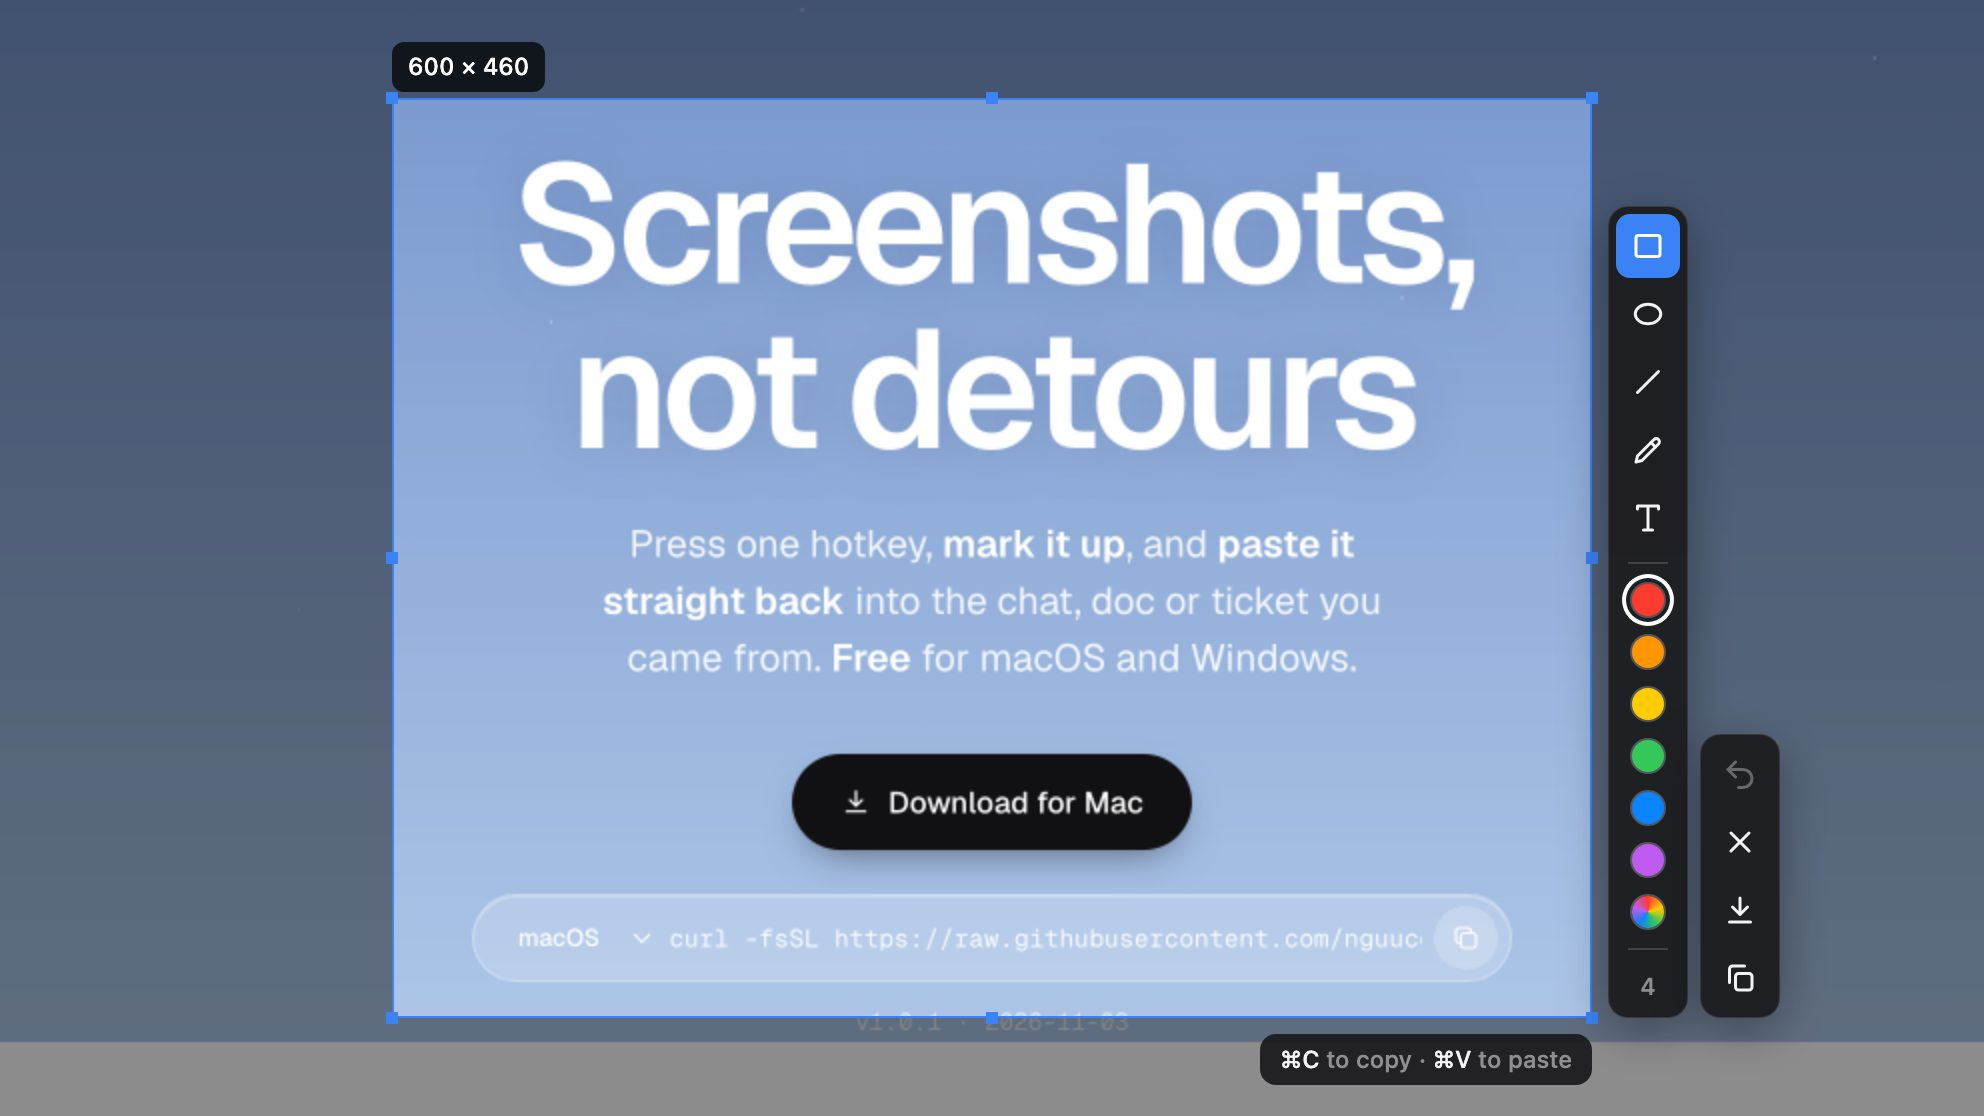
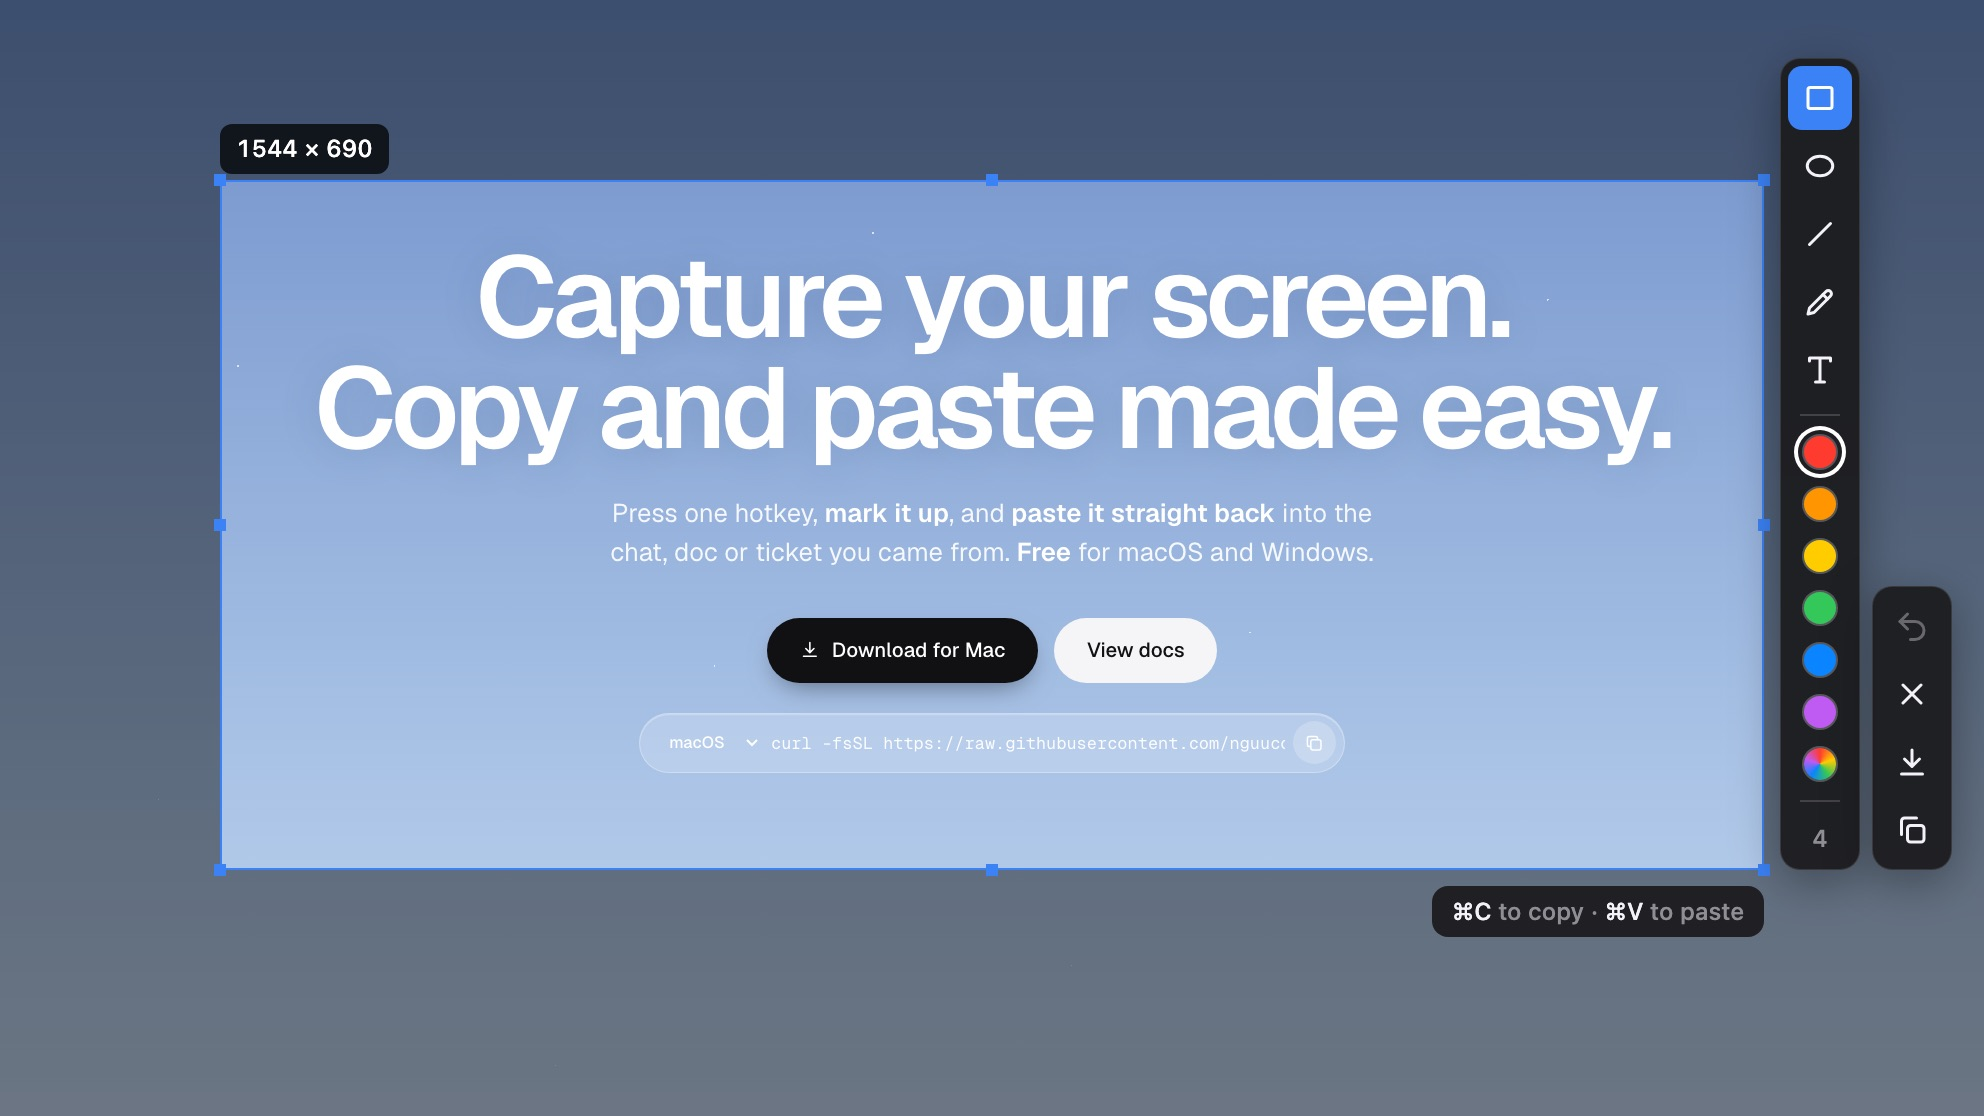
Website: new hero copy, View docs button, demo inside an iMac
- Darken the nav links.
- Headline "Capture your screen. Copy and paste made easy." on two lines,
  lede on two lines, smaller headline on phones.
- Add a View docs button next to Download, linking to the README.
- Show the demo on an iMac rendered once from a 3D model to a 14 KB WebP,
  so the page loads no GLB or WebGL. The screen is 80% of the window width.
- Re-render the demo frames and match the drag animation to the new area.
- Credit the model in the footer (CC BY 4.0, dannzjs).

diff --git a/docs/index.html b/docs/index.html
@@ -41,7 +41,7 @@ a { color: inherit; text-decoration: none; }
 .nav .bar { pointer-events: auto; width: 100%; max-width: 1180px; display: flex; align-items: center; justify-content: space-between; gap: 16px; height: 56px; padding: 0 8px 0 20px; border-radius: 999px; background: color-mix(in srgb, var(--bg) 78%, transparent); backdrop-filter: saturate(1.6) blur(16px); -webkit-backdrop-filter: saturate(1.6) blur(16px); box-shadow: 0 1px 0 rgba(255, 255, 255, .4) inset, 0 8px 30px -12px rgba(30, 50, 90, .25); }
 .brand { display: flex; align-items: center; gap: 10px; font-weight: 600; letter-spacing: -.01em; }
 .brand img { width: 22px; height: 22px; border-radius: 6px; }
-.links { display: flex; gap: 28px; font-size: 14px; color: var(--muted); }
+.links { display: flex; gap: 28px; font-size: 14px; color: color-mix(in srgb, var(--fg) 80%, transparent); }
 .links a:hover { color: var(--fg); }
 
 /* Buttons */
@@ -58,8 +58,8 @@ a { color: inherit; text-decoration: none; }
 .hero { position: relative; margin: 12px; border-radius: 32px; padding: 150px 24px 0; text-align: center; color: #fff; background: linear-gradient(180deg, var(--sky-1) 0, var(--sky-2) 560px, var(--sky-3) 1060px); isolation: isolate; }
 .hero::before { content: ""; position: absolute; inset: 0; border-radius: inherit; z-index: -1; pointer-events: none; opacity: .7; background-image: radial-gradient(1.5px 1.5px at 12% 22%, #fff 50%, transparent 51%), radial-gradient(1px 1px at 28% 64%, #fff 50%, transparent 51%), radial-gradient(1.5px 1.5px at 44% 14%, #fff 50%, transparent 51%), radial-gradient(1px 1px at 63% 38%, #fff 50%, transparent 51%), radial-gradient(1.5px 1.5px at 78% 18%, #fff 50%, transparent 51%), radial-gradient(1px 1px at 88% 56%, #fff 50%, transparent 51%), radial-gradient(1px 1px at 8% 48%, #fff 50%, transparent 51%), radial-gradient(1.5px 1.5px at 70% 70%, #fff 50%, transparent 51%), radial-gradient(1px 1px at 36% 40%, #fff 50%, transparent 51%), radial-gradient(1px 1px at 54% 58%, #fff 50%, transparent 51%); animation: twinkle 6s ease-in-out infinite alternate; }
 @keyframes twinkle { to { opacity: .25; } }
-.hero h1 { font-size: clamp(44px, 7vw, 84px); line-height: .98; letter-spacing: -.045em; font-weight: 600; margin: 0 auto 22px; max-width: 12ch; text-wrap: balance; text-shadow: 0 2px 30px rgba(30, 50, 90, .15); }
-.hero .lede { font-size: 19px; line-height: 1.5; max-width: 34ch; margin: 0 auto 34px; color: rgba(255, 255, 255, .9); text-wrap: balance; }
+.hero h1 { font-size: clamp(44px, 7vw, 84px); line-height: .98; letter-spacing: -.045em; font-weight: 600; margin: 0 auto 22px; text-wrap: balance; text-shadow: 0 2px 30px rgba(30, 50, 90, .15); }
+.hero .lede { font-size: 19px; line-height: 1.5; max-width: 62ch; margin: 0 auto 34px; color: rgba(255, 255, 255, .9); text-wrap: balance; }
 .hero .lede b { color: #fff; font-weight: 600; }
 .cta-row { display: flex; flex-wrap: wrap; justify-content: center; gap: 12px; }
 .cmd { display: flex; align-items: center; gap: 6px; max-width: 520px; margin: 22px auto 0; height: 44px; padding: 0 6px 0 16px; border-radius: 999px; background: rgba(255, 255, 255, .18); border: 1px solid rgba(255, 255, 255, .3); backdrop-filter: blur(10px); -webkit-backdrop-filter: blur(10px); box-shadow: inset 0 1px 0 rgba(255, 255, 255, .25); color: #fff; }
@@ -77,14 +77,18 @@ a { color: inherit; text-decoration: none; }
 .ver { margin-top: 12px; font: 12px var(--mono); color: rgba(255, 255, 255, .75); min-height: 18px; }
 
 /* Demo: three real frames of the overlay. Frame 1 is revealed like a selection being dragged, frame 2 fades in the annotations. */
-.stage { position: relative; max-width: 1000px; margin: 64px auto -140px; }
-.demo { position: relative; margin: 0; aspect-ratio: 16 / 9; border-radius: 20px; overflow: hidden; box-shadow: var(--shadow); background: #8a8a8a; }
+/* The iMac screen spans 93.16% of the image, so 85.87vw makes the screen 80vw */
+.stage { width: min(85.87vw, 100%); margin: 64px auto 0; }
+.imac { position: relative; }
+.imac > img { display: block; width: 100%; height: auto; filter: drop-shadow(0 30px 40px rgba(30, 50, 90, .3)); }
+/* Screen rectangle measured from the 3D model */
+.demo { position: absolute; margin: 0; left: 3.42%; right: 3.42%; top: 4.657%; bottom: 34.783%; overflow: hidden; background: #8a8a8a; }
 .demo img { position: absolute; inset: 0; width: 100%; height: 100%; display: block; }
 .demo .f1 { animation: drag 10s infinite; }
 .demo .f2 { animation: mark 10s infinite; }
 @keyframes drag {
-  0%, 12% { clip-path: inset(8.78% 80.24% 91.22% 19.76%); opacity: 1; animation-timing-function: var(--ease); }
-  34%, 35.9% { clip-path: inset(8.78% 19.76% 8.78% 19.76%); }
+  0%, 12% { clip-path: inset(16.13% 88.91% 83.87% 11.09%); opacity: 1; animation-timing-function: var(--ease); }
+  34%, 35.9% { clip-path: inset(16.13% 11.09% 22.04% 11.09%); }
   36%, 90% { clip-path: inset(0); opacity: 1; }
   96%, 100% { clip-path: inset(0); opacity: 0; }
 }
@@ -92,11 +96,11 @@ a { color: inherit; text-decoration: none; }
 .track { position: absolute; inset: 0; pointer-events: none; animation: track 10s infinite; }
 .track svg { position: absolute; left: 0; top: 0; width: 22px; height: 22px; margin: -11px 0 0 -11px; color: #fff; filter: drop-shadow(0 1px 1px rgba(0, 0, 0, .6)); }
 @keyframes track {
-  0%, 12% { transform: translate(19.76%, 8.78%); opacity: 1; animation-timing-function: var(--ease); }
-  34% { transform: translate(80.24%, 91.22%); opacity: 1; }
-  38%, 100% { transform: translate(80.24%, 91.22%); opacity: 0; }
+  0%, 12% { transform: translate(11.09%, 16.13%); opacity: 1; animation-timing-function: var(--ease); }
+  34% { transform: translate(88.91%, 77.96%); opacity: 1; }
+  38%, 100% { transform: translate(88.91%, 77.96%); opacity: 0; }
 }
-.steps { display: flex; justify-content: center; flex-wrap: wrap; gap: 6px; margin-top: 162px; font: 12px var(--mono); color: var(--faint); }
+.steps { display: flex; justify-content: center; flex-wrap: wrap; gap: 6px; margin-top: 22px; font: 12px var(--mono); color: var(--faint); }
 .steps span { padding: 6px 12px; border-radius: 999px; }
 .steps span:nth-child(1) { animation: s1 10s infinite; }
 .steps span:nth-child(2) { animation: s2 10s infinite; }
@@ -214,12 +218,11 @@ footer a:hover { color: var(--fg); }
   .card { min-height: 0; }
   .minis { grid-template-columns: minmax(0, 1fr); }
   .keys { grid-template-columns: repeat(2, minmax(0, 1fr)); }
-  .stage { margin-bottom: -80px; }
-  .steps { margin-top: 102px; }
 }
 @media (max-width: 560px) {
   .wrap { padding: 0 16px; }
   .hero { margin: 8px; border-radius: 24px; padding: 120px 16px 0; }
+  .hero h1 { font-size: clamp(32px, 9.4vw, 44px); }
   .hero .lede { font-size: 17px; }
   .nav { left: 16px; right: 16px; top: 16px; }
   .nav .bar { padding-left: 16px; }
@@ -231,8 +234,7 @@ footer a:hover { color: var(--fg); }
   .keys kbd { font-size: 13px; min-width: 30px; padding: 5px 7px; }
   .keys .k { gap: 4px; }
   .end { margin: 80px 8px 8px; border-radius: 24px; padding: 80px 20px; }
-  .stage { margin-top: 48px; margin-bottom: -40px; }
-  .steps { margin-top: 62px; }
+  .stage { margin-top: 48px; }
 }
 @media (prefers-reduced-motion: reduce) {
   *, *::before { animation: none !important; transition: none !important; }
@@ -258,13 +260,14 @@ footer a:hover { color: var(--fg); }
 </header>
 
 <section class="hero">
-  <h1 class="rise">Screenshots, not detours</h1>
+  <h1 class="rise">Capture your screen.<br>Copy and paste made easy.</h1>
   <p class="lede rise" style="--i:1">Press one hotkey, <b>mark it up</b>, and <b>paste it straight back</b> into the chat, doc or ticket you came from. <b>Free</b> for macOS and Windows.</p>
   <div class="cta-row rise" style="--i:2">
     <a class="btn ink dl-main" href="https://github.com/nguucode/shoreshot/releases/latest">
       <svg viewBox="0 0 24 24" fill="none" stroke="currentColor" stroke-width="1.75" stroke-linecap="round" stroke-linejoin="round"><path d="M12 4v11m0 0 4.5-4.5M12 15l-4.5-4.5M5 19h14"/></svg>
       <span class="dl-label">Download</span>
     </a>
+    <a class="btn soft" href="https://github.com/nguucode/shoreshot#readme">View docs</a>
   </div>
   <div class="rise" style="--i:3">
     <div class="cmd">
@@ -279,12 +282,15 @@ footer a:hover { color: var(--fg); }
   </div>
 
   <div class="stage rise" style="--i:4">
+    <div class="imac">
+    <img src="imac.webp" width="2400" height="2062" alt="" decoding="async">
     <figure class="demo" role="img" aria-label="ShoreShot over a web page: an area is selected and marked with a red box, a green circle and red text, with the tools bar and the actions bar on its right">
       <img src="shot-0.jpg" width="1984" height="1116" alt="">
       <img class="f1" src="shot-1.jpg" width="1984" height="1116" alt="">
       <img class="f2" src="shot-2.jpg" width="1984" height="1116" alt="">
       <div class="track"><svg viewBox="0 0 24 24" fill="none" stroke="currentColor" stroke-width="1.5"><path d="M12 2v20M2 12h20"/></svg></div>
     </figure>
+    </div>
   </div>
 </section>
 <div class="steps wrap" aria-hidden="true"><span>⌘⇧X</span><span>drag</span><span>mark up</span><span>⌘V into chat</span></div>
@@ -404,6 +410,7 @@ footer a:hover { color: var(--fg); }
   <a href="https://github.com/nguucode/shoreshot">Source</a>
   <a href="https://github.com/nguucode/shoreshot/releases">Releases</a>
   <a href="https://github.com/nguucode/shoreshot/issues/new">Report an issue</a>
+  <span>Rendered from <a href="https://sketchfab.com/3d-models/imac-b40b903fe1d24bd59fde71934c4cef59">Imac</a> by <a href="https://sketchfab.com/dannzjs">dannzjs</a>, <a href="https://creativecommons.org/licenses/by/4.0/">CC BY 4.0</a></span>
 </footer>
 
 <script>
